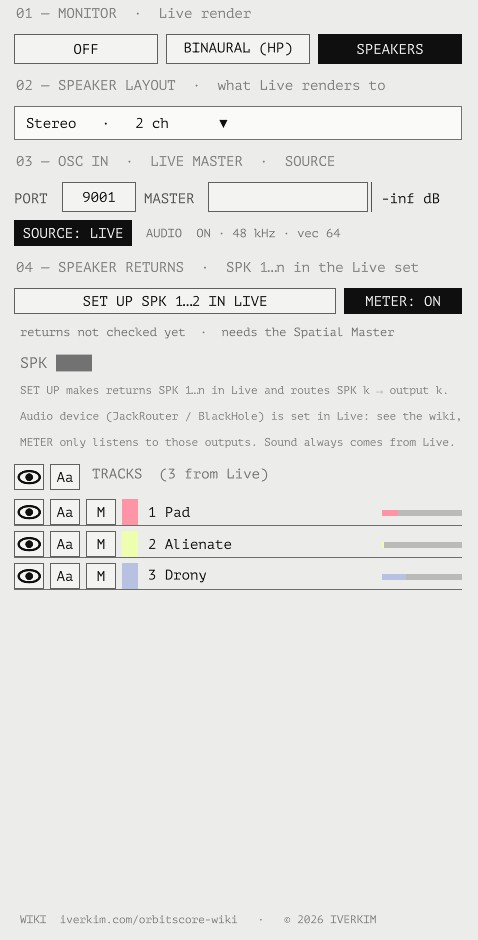
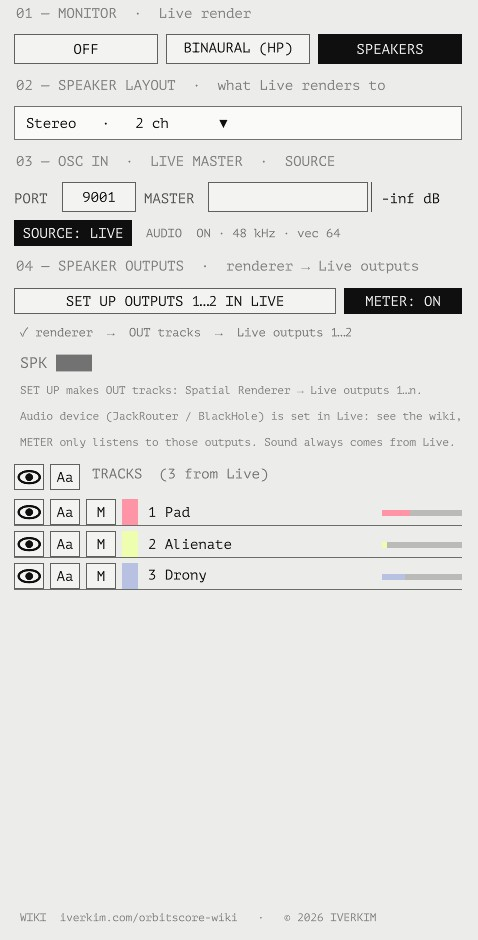
orbitscore-wiki: v8.0 - Spatial Renderer replaces SPK returns (EN/KO)
Claude-Session: https://claude.ai/code/session_01TKc1CDoWRtRwsAG1rPAYtG

diff --git a/orbitscore-wiki/index.html b/orbitscore-wiki/index.html
@@ -144,7 +144,7 @@ footer{font:11.5px/1.6 var(--f-mono);color:var(--mid);border-top:1px solid var(-
 <div class="page">
 <nav class="side" aria-label="Contents">
   <div class="brand">ORBIT SCORE</div>
-  <div class="status">WIKI · v7.5 · 2026.11<br>LIVE · M4L · TOUCHDESIGNER</div>
+  <div class="status">WIKI · v8.0 · 2026.11<br>LIVE · M4L · TOUCHDESIGNER</div>
   <button class="btn menu" id="menuBtn" aria-expanded="false">CONTENTS ▾</button>
   <ol class="toc" id="toc">
     <li><a href="#overview"><span>00</span>OVERVIEW</a></li>
@@ -189,7 +189,7 @@ footer{font:11.5px/1.6 var(--f-mono);color:var(--mid);border-top:1px solid var(-
     <rect class="box" x="20" y="124" width="190" height="34"/><text x="32" y="146" font-size="12">Track n · Spatial Object</text>
     <rect class="fillbox" x="290" y="80" width="170" height="34"/><text x="304" y="102" font-size="12" class="inv">Spatial Master</text>
     <path class="wire" d="M210 53 H250 V97 H290 M210 97 H290 M210 141 H250 V97"/>
-    <rect class="box" x="20" y="200" width="190" height="34"/><text x="32" y="222" font-size="12">Returns · SPK 1…n</text>
+    <rect class="box" x="20" y="200" width="190" height="34"/><text x="32" y="222" font-size="12">Spatial Renderer · OUT</text>
     <path class="dash" d="M115 158 V200"/><text x="124" y="186" class="m" font-size="10">SPEAKERS: sends</text>
     <rect class="box" x="290" y="200" width="170" height="34"/><text x="304" y="222" font-size="12">Main → HP / interface</text>
     <path class="dash" d="M210 217 H290"/>
@@ -233,11 +233,11 @@ footer{font:11.5px/1.6 var(--f-mono);color:var(--mid);border-top:1px solid var(-
     <li>Set the Master to <span class="pill on">BINAURAL</span> and you will hear it on headphones straight away.</li>
   </ol>
   <h4>Audio output for speaker mode</h4>
-  <p>Speaker mode sends Live's returns <code>SPK 1</code> … <code>SPK n</code> out through the virtual device of <a href="#setup-out">01.3</a>. Set that up first — on Windows JACK has to be running before Live can pick JackRouter.</p>
+  <p>Speaker mode mixes every object in one device, the <strong>Spatial Renderer</strong>, and sends the speaker feeds out through the virtual device of <a href="#setup-out">01.3</a>. Set that up first — on Windows JACK has to be running before Live can pick JackRouter.</p>
   <ol>
     <li><strong>macOS</strong>: Preferences → Audio → <strong>Output Device = BlackHole 16ch</strong>, and enable as many output channels as the layout has speakers.</li>
     <li><strong>Windows</strong>: Preferences → Audio → Driver Type ASIO, <strong>Audio Device = JackRouter</strong>, same sample rate as JACK. In <strong>Output Config</strong> enable the pairs that cover the speakers (1/2, 3/4 … up to the speaker count).</li>
-    <li>Returns: press <strong>SET UP SPK 1…n IN LIVE</strong> in TouchDesigner (<a href="#setup-td">01.2</a>) — it creates <code>SPK 1 … n</code> and routes SPK k to output k. By hand: one return per speaker named <code>SPK k</code>, output Ext. Out / k.</li>
+    <li>Make one empty audio track, name it <code>ORBIT RENDER</code> and drop <strong>Spatial Renderer</strong> on it. Then press <strong>SET UP OUTPUTS 1…n IN LIVE</strong> in TouchDesigner (<a href="#setup-td">01.2</a>): it creates the tracks <code>OUT 1/2</code>, <code>OUT 3/4</code> … that carry the renderer's outputs to Live outputs 1…n. Select the renderer and OUT tracks and group them (<kbd>Ctrl</kbd>+<kbd>G</kbd>) to fold them away.</li>
   </ol>
   <figure class="ticks"><div class="t"></div><img src="media/live-output-config.jpg?v=1110b" alt="Ableton Live Settings, Audio: Driver Type ASIO, Audio Device JackRouter, Output Config with stereo pairs 1/2 to 15/16 enabled" loading="lazy" width="560" height="770" style="max-width:420px"><figcaption>FIG. 1.1 — Live → Settings → Audio with JackRouter: Output Config shows as many pairs as JackRouter.ini allows; enable the ones the layout uses</figcaption></figure>
   </section>
@@ -250,21 +250,21 @@ footer{font:11.5px/1.6 var(--f-mono);color:var(--mid);border-top:1px solid var(-
     <li>On the <span class="pill">LIVE</span> tab of the sidebar, check that PORT reads <code>9001</code>. Once the tracks appear in Live's order, you are connected.</li>
     <li>When you finish, <strong>save TouchDesigner with <kbd>Ctrl</kbd>+<kbd>S</kbd> and save the Live set as well</strong>. Paths and motion settings live in the Live set; the TouchDesigner save keeps the screen and theme settings.</li>
   </ol>
-  <h4>04 SPEAKER RETURNS</h4>
-  <p>LIVE tab → <strong>04 SPEAKER RETURNS</strong>. No audio device is chosen in TouchDesigner — the sound always comes from Live, and the device (JackRouter / BlackHole) is set in Live's preferences (<a href="#setup-live">01.1</a>, <a href="#setup-out">01.3</a>).</p>
+  <h4>04 SPEAKER OUTPUTS</h4>
+  <p>LIVE tab → <strong>04 SPEAKER OUTPUTS</strong>. No audio device is chosen in TouchDesigner — the sound always comes from Live, and the device (JackRouter / BlackHole) is set in Live's preferences (<a href="#setup-live">01.1</a>, <a href="#setup-out">01.3</a>).</p>
   <ul>
-    <li><strong>SET UP SPK 1…n IN LIVE</strong> — fits the Live set's return tracks to the current layout: creates the missing <code>SPK k</code> returns, deletes spare empty SPK returns (those without devices), and routes each <code>SPK k</code> to Ext. Out, channel k. The Spatial Master does it one step at a time, so it takes a few seconds. Press it again after changing the layout.</li>
-    <li><strong>Status line</strong> — <span class="mono">✓ SPK 1…12 → Live outputs 1…12</span>, or missing returns / returns on the wrong output / Live offering fewer outputs than the layout needs (enable them in Output Config). The same shows as ⚠ on the LOG tab.</li>
+    <li><strong>SET UP OUTPUTS 1…n IN LIVE</strong> — the Spatial Renderer creates one audio track per speaker pair (<code>OUT 1/2</code>, <code>OUT 3/4</code> …), feeds each from its own output pair and routes it to the matching Live output; spare empty OUT tracks are removed. It takes a few seconds. Press it again after changing the layout. Each Spatial Object routes its own track into the renderer when the monitor is on SPEAKERS.</li>
+    <li><strong>Status line</strong> — <span class="mono">✓ renderer → OUT tracks → Live outputs 1…8</span>, or missing OUT tracks / wrong routing / Live offering fewer outputs than the layout needs (enable them in Output Config). The same shows as ⚠ on the LOG tab.</li>
     <li><strong>METER</strong> — optional. It finds JackRouter / BlackHole by itself and shows one level per speaker. On Windows, also connect Live's outputs to TouchDesigner's inputs in the QjackCtl Graph. You can leave it off.</li>
   </ul>
-  <figure class="ticks"><div class="t"></div><img src="media/ui-speakerout.jpg?v=1110c" alt="Sidebar LIVE tab: MONITOR, SPEAKER LAYOUT, OSC IN, SPEAKER RETURNS with the SET UP SPK button and METER, TRACKS, and the wiki link and copyright line at the bottom" loading="lazy" width="478" height="940" style="max-width:478px"><figcaption>FIG. 1.2 — LIVE tab: 04 SPEAKER RETURNS with SET UP SPK · METER, wiki link at the bottom</figcaption></figure>
-  <div class="note"><b>NOTE</b>Live's Preferences → Audio (driver, device, sample rate, Output Config) cannot be changed through the Live API, so that part is set by hand once. The return tracks and their output routing inside the set are handled by SET UP.</div>
+  <figure class="ticks"><div class="t"></div><img src="media/ui-speakerout.jpg?v=1110d" alt="Sidebar LIVE tab: MONITOR, SPEAKER LAYOUT, OSC IN, SPEAKER OUTPUTS with the SET UP button and METER, TRACKS, and the wiki link and copyright line at the bottom" loading="lazy" width="478" height="940" style="max-width:478px"><figcaption>FIG. 1.2 — LIVE tab: 04 SPEAKER OUTPUTS with SET UP OUTPUTS · METER, wiki link at the bottom</figcaption></figure>
+  <div class="note"><b>NOTE</b>Live's Preferences → Audio (driver, device, sample rate, Output Config) cannot be changed through the Live API, so that part is set by hand once. The tracks and routing inside the set are handled by SET UP.</div>
   </section>
 
   <section id="setup-out" class="sub">
   <div class="cap">01.3 — BlackHole / JACK</div>
   <h3 class="subh">Multichannel output · BlackHole / JACK</h3>
-  <p>This is what the tool is for: Live renders every object onto the speaker layout (returns <code>SPK 1</code> … <code>SPK n</code>) and that multichannel feed has to reach the room — your interface's outputs — or another application that does the final playback. A virtual audio device is the bus for that. In TouchDesigner the <strong>04 SPEAKER RETURNS</strong> section sets up the <code>SPK</code> returns in the Live set and can meter the feeds (<a href="#setup-td">01.2</a>).</p>
+  <p>This is what the tool is for: Live renders every object onto the speaker layout (the Spatial Renderer device) and that multichannel feed has to reach the room — your interface's outputs — or another application that does the final playback. A virtual audio device is the bus for that. In TouchDesigner the <strong>04 SPEAKER OUTPUTS</strong> section sets up the output tracks in the Live set and can meter the feeds (<a href="#setup-td">01.2</a>).</p>
   <h4>macOS — BlackHole</h4>
   <ol>
     <li>Install <a href="https://existential.audio/blackhole/" rel="noopener" target="_blank">BlackHole</a> (16ch; 64ch for dome layouts).</li>
@@ -287,7 +287,7 @@ footer{font:11.5px/1.6 var(--f-mono);color:var(--mid);border-top:1px solid var(-
   <h5>Reading the QjackCtl graph</h5>
   <div class="tw"><table>
     <tr><th>Box · port</th><th>What it is</th></tr>
-    <tr><td><code>Ableton Live</code> out1 … out16</td><td>JackRouter's outputs — as many as <code>output=</code> in JackRouter.ini. Live's <code>SPK n</code> returns arrive here.</td></tr>
+    <tr><td><code>Ableton Live</code> out1 … out16</td><td>JackRouter's outputs — as many as <code>output=</code> in JackRouter.ini. The <code>OUT</code> tracks arrive here.</td></tr>
     <tr><td><code>system</code> playback_1 … N</td><td>The interface's physical outputs, one per speaker. N is fixed by the hardware.</td></tr>
     <tr><td><code>system</code> capture_1 · 2</td><td>The interface's inputs (or whatever input device the driver offers). Wired to Live's in1 · in2 by default; harmless for output. <strong>Playback Only</strong> removes them.</td></tr>
     <tr><td><code>system_midi</code></td><td>MIDI ports — not used by Orbit Score.</td></tr>
@@ -299,7 +299,7 @@ footer{font:11.5px/1.6 var(--f-mono);color:var(--mid);border-top:1px solid var(-
 <!-- 02 -->
 <section id="devices">
   <div class="cap">02 — Live devices</div>
-  <h2>Spatial Object · Spatial Master</h2>
+  <h2>Spatial Object · Spatial Master · Spatial Renderer</h2>
   <h3>Spatial Object parameters</h3>
   <p>All of them are ordinary Live parameters, so you can automate them, map them to macros or drive them with modulators. The position dials (Azimuth / Elevation / Distance) set the <em>centre</em> of the motion.</p>
   <div class="tw"><table>
@@ -324,6 +324,13 @@ footer{font:11.5px/1.6 var(--f-mono);color:var(--mid);border-top:1px solid var(-
     <li>Collects the objects' OSC and sends it to <code>127.0.0.1:9001</code>; listens on <code>9002</code> for edits from TouchDesigner.</li>
     <li>Track mute, master volume and track colour changed in TouchDesigner also reach Live through the Master.</li>
   </ul>
+  <h3>Spatial Renderer</h3>
+  <ul>
+    <li>One per set, on its own empty audio track (<code>ORBIT RENDER</code>). Only needed for speaker mode; binaural works without it.</li>
+    <li><strong>In</strong>: up to 16 objects. Each Spatial Object is given one input pair (3/4, 5/6 …) and routes its own track there while the monitor is on SPEAKERS; back to Main in binaural.</li>
+    <li><strong>Out</strong>: up to 64 speakers. Speaker k leaves on device output k + 2; the <code>OUT</code> tracks made by SET UP OUTPUTS pick the pairs up and send them to Live outputs 1…n.</li>
+    <li>The numbers (16 / 64) are fixed in the device file; a device with other counts can be generated on request.</li>
+  </ul>
   <div class="note"><b>TIP</b>Reordering tracks is safe. Objects are identified by UID rather than track number, and the TouchDesigner list simply follows Live's track order.</div>
 </section>
 
@@ -346,7 +353,7 @@ footer{font:11.5px/1.6 var(--f-mono);color:var(--mid);border-top:1px solid var(-
   <p>The right-hand panel folds away with the <span class="pill">›</span> button on its edge. It has three tabs.</p>
   <div class="tw"><table>
     <tr><th>Tab</th><th>Contents</th></tr>
-    <tr><td>LIVE</td><td>Everything that talks to Live. <strong>01 MONITOR</strong> Off / Binaural (HP) / Speakers · <strong>02 SPEAKER LAYOUT</strong> click to open the list · <strong>03 OSC IN · LIVE MASTER · SOURCE</strong> port (editable), MASTER volume slider, SOURCE: LIVE / DEMO, and Live's audio state (DSP, sample rate, vector size; warns if not 48 kHz) · <strong>04 SPEAKER RETURNS</strong> SET UP SPK 1…n IN LIVE (creates and routes the <code>SPK</code> returns for the layout), status line, optional METER. Problems go to the LOG tab, which shows a small ⚠ · <strong>TRACKS</strong> per track: show (eye), name label (Aa), mute (M), colour, level meter</td></tr>
+    <tr><td>LIVE</td><td>Everything that talks to Live. <strong>01 MONITOR</strong> Off / Binaural (HP) / Speakers · <strong>02 SPEAKER LAYOUT</strong> click to open the list · <strong>03 OSC IN · LIVE MASTER · SOURCE</strong> port (editable), MASTER volume slider, SOURCE: LIVE / DEMO, and Live's audio state (DSP, sample rate, vector size; warns if not 48 kHz) · <strong>04 SPEAKER OUTPUTS</strong> SET UP OUTPUTS 1…n IN LIVE (the renderer's OUT tracks for the layout), status line, optional METER. Problems go to the LOG tab, which shows a small ⚠ · <strong>TRACKS</strong> per track: show (eye), name label (Aa), mute (M), colour, level meter</td></tr>
     <tr><td>VIEW</td><td>Only what changes the picture. <strong>01 PANNING MODEL · speaker glow</strong> VBAP / DBAP / AMBI / WFS · <strong>02 VIEW</strong> dome guide, auto orbit, reset view, ears, theme, names, head (hides the listener model, ears and face)</td></tr>
     <tr><td>SCENES</td><td>Scene list (see <a href="#scenes">05</a>)</td></tr>
     <tr><td>LOG</td><td>WARNINGS (output checks; a ⚠ on the tab while one is active), OSC and device messages. Drag to select and copy. COPY / CLEAR / RESEND (ask Live to send its whole state again)</td></tr>
@@ -425,8 +432,8 @@ footer{font:11.5px/1.6 var(--f-mono);color:var(--mid);border-top:1px solid var(-
   <p>For each object's direction, the device works out the interaural time difference (ITD) and head shadow and renders to stereo. In the 3D view the listener's ears are tinted <span class="L">L blue</span> / <span class="R">R red</span>, and the brightness of each line from an object to an ear shows how much of the sound reaches that ear. The <span class="mono">ITD 0.45 ms R</span> under a name tells you which ear hears it first, and by how much.</p>
   <p>A Line shape is split into two binaural chains, one per end: input L → end A, input R → end B.</p>
   <h3>SPEAKERS</h3>
-  <p>3D VBAP gives a gain per speaker, which the track's sends deliver to return tracks named <code>SPK 1</code> … <code>SPK n</code>. Route each return's output to a channel of your interface. In speaker mode the object tracks' outputs switch to Sends Only.</p>
-  <div class="note"><b>NOTE</b>The audio driver (ASIO / Core Audio), sample rate and buffer size are set in Live under <strong>Preferences → Audio</strong>. Live handles the audio; the AUDIO line on the LIVE tab only reports it. Getting the speaker feeds out of Live and into the room goes through BlackHole / JACK (<a href="#setup-out">01.3</a>); the SPEAKER RETURNS section sets up the returns and can meter them.</div>
+  <p>3D VBAP gives a gain per speaker. In speaker mode every Spatial Object routes its track into the <strong>Spatial Renderer</strong> device (one input pair per object, up to 16), which mixes all objects onto the speakers at signal rate (up to 64) and hands each speaker pair to an <code>OUT</code> track routed to Live's outputs. No return tracks are used, so Live's limit of 12 returns does not apply. The track fader and mute still work: the track is sent post-mixer.</p>
+  <div class="note"><b>NOTE</b>The audio driver (ASIO / Core Audio), sample rate and buffer size are set in Live under <strong>Preferences → Audio</strong>. Live handles the audio; the AUDIO line on the LIVE tab only reports it. Getting the speaker feeds out of Live and into the room goes through BlackHole / JACK (<a href="#setup-out">01.3</a>); the SPEAKER OUTPUTS section sets up the output tracks and can meter them.</div>
   <h3>Speaker layouts</h3>
   <div class="tw"><table>
     <tr><th>ID</th><th>Name</th></tr>
@@ -579,7 +586,7 @@ footer{font:11.5px/1.6 var(--f-mono);color:var(--mid);border-top:1px solid var(-
     <tr><td>Position jumped back to 0</td><td>This can happen right after the device script reloads. Reopening the set brings back the saved values.</td></tr>
     <tr><td>Two objects share a number</td><td>Duplicated tracks get a new UID automatically. If they still clash, delete the device and add it again.</td></tr>
     <tr><td>TD buttons look blank or white</td><td>Reopen the project. The UI refreshes on <code>Uitick</code> (10 Hz), so that parameter must exist.</td></tr>
-    <tr><td>No sound in speaker mode</td><td>Check the returns are named <code>SPK 1</code> … <code>SPK n</code>, that each return is routed to an interface channel, and that Live's output channels are enabled.</td></tr>
+    <tr><td>No sound in speaker mode</td><td>Is a <strong>Spatial Renderer</strong> in the set (LOG: <span class="mono">no-renderer</span> means it is missing)? Press SET UP OUTPUTS, check the <code>OUT</code> tracks show signal and monitor In, and that Live's output channels are enabled in Output Config.</td></tr>
     <tr><td>Orbit Link In says "no signal"</td><td>OSC Out Enable on in Orbit Score, host = the receiving computer, same port both sides, and no other project (an older Orbit Link, another Orbit In) holding that port.</td></tr>
     <tr><td><code>nan</code> in out1</td><td>Fixed in Orbit Link In: non-numbers become 0 and Smooth 0 bypasses the lag. In an older tox set Smooth to 0 or replace it.</td></tr>
     <tr><td>QjackCtl: "Can't open … ???? (…)"</td><td>The Windows device name has non-Latin characters (e.g. a Korean "스피커 (…)") that JACK cannot read. Choose the <code>ASIO::</code> entry of the interface, or rename the device in Sound settings (<code>mmsys.cpl</code>) to Latin letters. Also set Live to No Device while JACK starts.</td></tr>
@@ -596,7 +603,7 @@ footer{font:11.5px/1.6 var(--f-mono);color:var(--mid);border-top:1px solid var(-
   <div class="cap">12 — Roadmap</div>
   <h2>What's next</h2>
   <ul>
-        <li><strong>Speaker routing</strong>: a speaker → output channel map in the LAYOUT list (now SPK k always goes to output k).</li>
+        <li><strong>Renderer</strong>: WFS with per-speaker delays, a speaker → output channel map, level meters on the device.</li>
     <li><strong>Fade curves</strong>: per-scene choice of ease-in-out (now), linear or exponential, and fading motion rate / size as well as the centre.</li>
     <li><strong>Orbit Link</strong>: receive the timeline (bar · beat, locators) so visuals can follow the song position.</li>
 </ul>
@@ -608,7 +615,8 @@ footer{font:11.5px/1.6 var(--f-mono);color:var(--mid);border-top:1px solid var(-
   <h2>Changelog</h2>
   <div class="tw"><table>
     <tr><th>Date</th><th>Changes</th></tr>
-    <tr><td>2026.11.10</td><td>v7.5: SPEAKER RETURNS replaces SPEAKER OUT — SET UP SPK 1…n creates the returns in Live and routes SPK k to output k, with a status line and LOG warnings; no device choice in TouchDesigner (METER finds JackRouter / BlackHole itself) · wiki link and copyright line in the sidebar · fixed the Spatial Object script that had stopped driving the sends</td></tr>
+    <tr><td>2026.11.10</td><td>v8.0: speaker mode rebuilt around the new <strong>Spatial Renderer</strong> device — objects route into it, it mixes onto up to 64 speakers at signal rate and feeds OUT tracks to Live's outputs; no SPK return tracks, so no 12-return limit · SET UP OUTPUTS creates and routes the OUT tracks</td></tr>
+    <tr><td>2026.11.10</td><td>v7.5 (superseded): SPEAKER RETURNS replaces SPEAKER OUT — SET UP SPK 1…n creates the returns in Live and routes SPK k to output k, with a status line and LOG warnings; no device choice in TouchDesigner (METER finds JackRouter / BlackHole itself) · wiki link and copyright line in the sidebar · fixed the Spatial Object script that had stopped driving the sends</td></tr>
     <tr><td>2026.11.10</td><td>v7.4: Orbit Link split into Orbit Link In (receive) and Orbit Link Out (send, Objects filter, scene list from an Orbit In) · out1 is position only by default, Out: toggles for az/el/dist, level, colour, shape · <code>nan</code> fix in Smooth · test Audiovisual takes the values through an inlet · Windows JACK set-up written out (JackRouter channel count, ASIO entry, Playback Only, reading the graph) · editor: EDIT PATH lock for points, the canvas fills the free width when panels are closed, panel toggles are two thin side-by-side strips · VIEW → HEAD hides the listener model · double-click a slider to type a number · speaker glow less saturated than the objects (Glow Saturation) · scenes: objects outside a recalled scene are muted and hidden (OTHERS: MUTE + HIDE / KEEP)</td></tr>
     <tr><td>2026.11.10</td><td>v7.3: per-scene object selection (● / ○ chips, objects not in a scene are left alone) · scene crossfade (default FADE + per-scene fade, beats at the current tempo, eased glide of the centre in the device) · Orbit Link: Select Object mode, Active Scene + scenes_out, Recall Scene from the other project (/orbit/set/scene), /orbit/scene + /orbit/scenes in the stream · output checks on the LOG tab</td></tr>
     <tr><td>2026.11.10</td><td>v7.2: OSC broadcast of every object (/orbit/…), OSC set-in (/orbit/set/…), Orbit Link tox (receive + send) with the test Audiovisual example · SPEAKER OUT section (BlackHole / JACK multichannel output, OS-aware, device list, per-speaker meters, output checks on the LOG tab with a ⚠ badge) · LIVE / VIEW tabs reorganised · single PATH: OPEN / CLOSED LOOP toggle · leader lines, far path points and loop recall fixed · editor fits above the timeline bar · RESET VIEW restarts auto orbit</td></tr>
@@ -649,7 +657,7 @@ footer{font:11.5px/1.6 var(--f-mono);color:var(--mid);border-top:1px solid var(-
     <rect class="box" x="20" y="124" width="190" height="34"/><text x="32" y="146" font-size="12">Track n · Spatial Object</text>
     <rect class="fillbox" x="290" y="80" width="170" height="34"/><text x="304" y="102" font-size="12" class="inv">Spatial Master</text>
     <path class="wire" d="M210 53 H250 V97 H290 M210 97 H290 M210 141 H250 V97"/>
-    <rect class="box" x="20" y="200" width="190" height="34"/><text x="32" y="222" font-size="12">Returns · SPK 1…n</text>
+    <rect class="box" x="20" y="200" width="190" height="34"/><text x="32" y="222" font-size="12">Spatial Renderer · OUT</text>
     <path class="dash" d="M115 158 V200"/><text x="124" y="186" class="m" font-size="10">SPEAKERS: sends</text>
     <rect class="box" x="290" y="200" width="170" height="34"/><text x="304" y="222" font-size="12">Main → HP / interface</text>
     <path class="dash" d="M210 217 H290"/>
@@ -692,11 +700,11 @@ footer{font:11.5px/1.6 var(--f-mono);color:var(--mid);border-top:1px solid var(-
     <li>Master를 <span class="pill on">BINAURAL</span>로 두면 헤드폰으로 바로 들린다.</li>
   </ol>
   <h4>스피커 모드 오디오 출력</h4>
-  <p>스피커 모드는 Live의 리턴 <code>SPK 1</code> … <code>SPK n</code>을 <a href="#ko-setup-out">01.3</a>의 가상 장치로 내보낸다. 그쪽을 먼저 설정한다 — Windows에서는 JACK이 켜져 있어야 Live에서 JackRouter를 고를 수 있다.</p>
+  <p>스피커 모드는 디바이스 하나, <strong>Spatial Renderer</strong>가 모든 오브젝트를 섞어서 <a href="#ko-setup-out">01.3</a>의 가상 장치로 내보낸다. 그쪽을 먼저 설정한다 — Windows에서는 JACK이 켜져 있어야 Live에서 JackRouter를 고를 수 있다.</p>
   <ol>
     <li><strong>macOS</strong>: 환경설정 → Audio → <strong>Output Device = BlackHole 16ch</strong>, 레이아웃 스피커 수만큼 출력 채널을 켠다.</li>
     <li><strong>Windows</strong>: 환경설정 → Audio → Driver Type ASIO, <strong>Audio Device = JackRouter</strong>, 샘플레이트는 JACK과 같게. <strong>Output Config</strong>에서 스피커 수만큼 쌍(1/2, 3/4 …)을 켠다.</li>
-    <li>리턴: TouchDesigner에서 <strong>SET UP SPK 1…n IN LIVE</strong>를 누른다(<a href="#ko-setup-td">01.2</a>) — <code>SPK 1 … n</code>을 만들고 SPK k를 출력 k로 연결한다. 손으로 하려면 스피커마다 <code>SPK k</code>라는 리턴을 만들고 출력을 Ext. Out / k로.</li>
+    <li>빈 오디오 트랙을 하나 만들어 이름을 <code>ORBIT RENDER</code>로 하고 <strong>Spatial Renderer</strong>를 올린다. 그다음 TouchDesigner에서 <strong>SET UP OUTPUTS 1…n IN LIVE</strong>를 누른다(<a href="#ko-setup-td">01.2</a>) — 렌더러 출력을 Live 출력 1…n으로 보내는 <code>OUT 1/2</code>, <code>OUT 3/4</code> … 트랙이 만들어진다. 렌더러와 OUT 트랙을 선택해 그룹(<kbd>Ctrl</kbd>+<kbd>G</kbd>)으로 묶어 접어 두면 깔끔하다.</li>
   </ol>
   <figure class="ticks"><div class="t"></div><img src="media/live-output-config.jpg?v=1110b" alt="Ableton Live 설정 Audio: Driver Type ASIO, Audio Device JackRouter, Output Config에서 스테레오 쌍 1/2~15/16 켜짐" loading="lazy" width="560" height="770" style="max-width:420px"><figcaption>FIG. 1.1 — JackRouter를 고른 Live 설정 → Audio: Output Config에는 JackRouter.ini에서 정한 만큼 쌍이 보인다. 레이아웃이 쓰는 만큼 켠다</figcaption></figure>
   </section>
@@ -709,21 +717,21 @@ footer{font:11.5px/1.6 var(--f-mono);color:var(--mid);border-top:1px solid var(-
     <li>사이드바 <span class="pill">LIVE</span> 탭에서 PORT가 <code>9001</code>인지 확인한다. 트랙이 Live 순서대로 목록에 뜨면 연결된 것.</li>
     <li>작업이 끝나면 <strong>TouchDesigner는 <kbd>Ctrl</kbd>+<kbd>S</kbd>, Live 세트도 따로 저장</strong>. 경로·움직임 설정은 Live 세트에, 화면·테마 설정은 TouchDesigner 쪽에 저장된다.</li>
   </ol>
-  <h4>04 SPEAKER RETURNS</h4>
-  <p>LIVE 탭 → <strong>04 SPEAKER RETURNS</strong>. TouchDesigner에서는 오디오 장치를 고르지 않는다 — 소리는 항상 Live가 내고, 장치(JackRouter / BlackHole)는 Live 환경설정에서 정한다(<a href="#ko-setup-live">01.1</a>, <a href="#ko-setup-out">01.3</a>).</p>
+  <h4>04 SPEAKER OUTPUTS</h4>
+  <p>LIVE 탭 → <strong>04 SPEAKER OUTPUTS</strong>. TouchDesigner에서는 오디오 장치를 고르지 않는다 — 소리는 항상 Live가 내고, 장치(JackRouter / BlackHole)는 Live 환경설정에서 정한다(<a href="#ko-setup-live">01.1</a>, <a href="#ko-setup-out">01.3</a>).</p>
   <ul>
-    <li><strong>SET UP SPK 1…n IN LIVE</strong> — 지금 레이아웃에 맞게 Live 세트의 리턴 트랙을 맞춘다: 없는 <code>SPK k</code> 리턴을 만들고, 남는 빈 SPK 리턴(디바이스가 없는 것)을 지우고, 각 <code>SPK k</code>의 출력을 Ext. Out의 채널 k로 연결한다. Spatial Master가 한 단계씩 처리하므로 몇 초 걸린다. 레이아웃을 바꾼 뒤 다시 누른다.</li>
-    <li><strong>상태 줄</strong> — <span class="mono">✓ SPK 1…12 → Live outputs 1…12</span>, 또는 빠진 리턴 / 잘못 연결된 리턴 / Live가 내주는 출력 수가 모자람(Output Config에서 켠다). 같은 내용이 LOG 탭 ⚠에도 뜬다.</li>
+    <li><strong>SET UP OUTPUTS 1…n IN LIVE</strong> — Spatial Renderer가 스피커 두 개당 오디오 트랙 하나(<code>OUT 1/2</code>, <code>OUT 3/4</code> …)를 만들고, 자기 출력 쌍을 그 트랙에 넣어 해당 Live 출력으로 연결한다. 남는 빈 OUT 트랙은 지운다. 몇 초 걸린다. 레이아웃을 바꾼 뒤 다시 누른다. 모니터가 SPEAKERS일 때 각 Spatial Object는 자기 트랙을 렌더러로 연결한다.</li>
+    <li><strong>상태 줄</strong> — <span class="mono">✓ renderer → OUT tracks → Live outputs 1…8</span>, 또는 OUT 트랙 없음 / 잘못된 연결 / Live가 내주는 출력 수가 모자람(Output Config에서 켠다). 같은 내용이 LOG 탭 ⚠에도 뜬다.</li>
     <li><strong>METER</strong> — 선택 사항. 켜면 JackRouter / BlackHole을 자동으로 찾아 스피커별 레벨을 보여준다. Windows에서는 QjackCtl Graph에서 Live 출력을 TouchDesigner 입력에도 연결해야 보인다. 끄고 써도 된다.</li>
   </ul>
-  <figure class="ticks"><div class="t"></div><img src="media/ui-speakerout.jpg?v=1110c" alt="사이드바 LIVE 탭: MONITOR, SPEAKER LAYOUT, OSC IN, SPEAKER RETURNS의 SET UP SPK 버튼과 METER, TRACKS, 맨 아래 위키 링크와 저작권 표시" loading="lazy" width="478" height="940" style="max-width:478px"><figcaption>FIG. 1.2 — LIVE 탭: 04 SPEAKER RETURNS의 SET UP SPK · METER, 맨 아래 위키 링크</figcaption></figure>
-  <div class="note"><b>NOTE</b>Live의 환경설정 → Audio(드라이버, 장치, 샘플레이트, Output Config)는 Live API로 바꿀 수 없어서 처음 한 번은 손으로 설정한다. 세트 안의 리턴 트랙과 출력 연결은 SET UP이 맡는다.</div>
+  <figure class="ticks"><div class="t"></div><img src="media/ui-speakerout.jpg?v=1110d" alt="사이드바 LIVE 탭: MONITOR, SPEAKER LAYOUT, OSC IN, SPEAKER OUTPUTS의 SET UP 버튼과 METER, TRACKS, 맨 아래 위키 링크와 저작권 표시" loading="lazy" width="478" height="940" style="max-width:478px"><figcaption>FIG. 1.2 — LIVE 탭: 04 SPEAKER OUTPUTS의 SET UP OUTPUTS · METER, 맨 아래 위키 링크</figcaption></figure>
+  <div class="note"><b>NOTE</b>Live의 환경설정 → Audio(드라이버, 장치, 샘플레이트, Output Config)는 Live API로 바꿀 수 없어서 처음 한 번은 손으로 설정한다. 세트 안의 트랙과 연결은 SET UP이 맡는다.</div>
   </section>
 
   <section id="ko-setup-out" class="sub">
   <div class="cap">01.3 — BlackHole / JACK</div>
   <h3 class="subh">다채널 출력 · BlackHole / JACK</h3>
-  <p>이 툴의 목적이 여기 있다. Live가 모든 오브젝트를 스피커 레이아웃으로 렌더링하면(리턴 <code>SPK 1</code> … <code>SPK n</code>) 그 다채널 피드가 공간 — 인터페이스 출력 — 이나 최종 재생을 맡은 다른 앱에 닿아야 한다. 가상 오디오 장치가 그 버스다. TouchDesigner의 <strong>04 SPEAKER RETURNS</strong> 섹션이 Live 세트의 <code>SPK</code> 리턴을 맞추고, 원하면 피드를 미터로 보여준다(<a href="#ko-setup-td">01.2</a>).</p>
+  <p>이 툴의 목적이 여기 있다. Live가 모든 오브젝트를 스피커 레이아웃으로 렌더링하면(Spatial Renderer 디바이스) 그 다채널 피드가 공간 — 인터페이스 출력 — 이나 최종 재생을 맡은 다른 앱에 닿아야 한다. 가상 오디오 장치가 그 버스다. TouchDesigner의 <strong>04 SPEAKER OUTPUTS</strong> 섹션이 Live 세트의 출력 트랙을 맞추고, 원하면 피드를 미터로 보여준다(<a href="#ko-setup-td">01.2</a>).</p>
   <h4>macOS — BlackHole</h4>
   <ol>
     <li><a href="https://existential.audio/blackhole/" rel="noopener" target="_blank">BlackHole</a> 설치 (16ch, 돔 레이아웃이면 64ch).</li>
@@ -746,7 +754,7 @@ footer{font:11.5px/1.6 var(--f-mono);color:var(--mid);border-top:1px solid var(-
   <h5>QjackCtl 그래프 읽기</h5>
   <div class="tw"><table>
     <tr><th>상자 · 포트</th><th>뜻</th></tr>
-    <tr><td><code>Ableton Live</code> out1 … out16</td><td>JackRouter의 출력. JackRouter.ini의 <code>output=</code> 수만큼 생긴다. Live의 <code>SPK n</code> 리턴이 여기로 나온다.</td></tr>
+    <tr><td><code>Ableton Live</code> out1 … out16</td><td>JackRouter의 출력. JackRouter.ini의 <code>output=</code> 수만큼 생긴다. <code>OUT</code> 트랙이 여기로 나온다.</td></tr>
     <tr><td><code>system</code> playback_1 … N</td><td>인터페이스의 실제 출력, 스피커 하나에 하나. N은 하드웨어가 정한다.</td></tr>
     <tr><td><code>system</code> capture_1 · 2</td><td>인터페이스 입력(또는 드라이버가 내주는 입력 장치). 기본으로 Live의 in1 · in2에 연결되지만 출력과는 상관없다. <strong>Playback Only</strong>로 두면 사라진다.</td></tr>
     <tr><td><code>system_midi</code></td><td>MIDI 포트 — Orbit Score는 쓰지 않는다.</td></tr>
@@ -757,7 +765,7 @@ footer{font:11.5px/1.6 var(--f-mono);color:var(--mid);border-top:1px solid var(-
 
 <section id="ko-devices">
   <div class="cap">02 — Live devices</div>
-  <h2>Spatial Object · Spatial Master</h2>
+  <h2>Spatial Object · Spatial Master · Spatial Renderer</h2>
   <h3>Spatial Object 파라미터</h3>
   <p>전부 Live 파라미터라서 오토메이션·매크로·모듈레이터로 움직일 수 있다. 위치 다이얼(Azimuth / Elevation / Distance)은 움직임의 <em>중심</em>이다.</p>
   <div class="tw"><table>
@@ -782,6 +790,13 @@ footer{font:11.5px/1.6 var(--f-mono);color:var(--mid);border-top:1px solid var(-
     <li>오브젝트들의 OSC를 모아 <code>127.0.0.1:9001</code>로 보내고, <code>9002</code>로 TouchDesigner의 편집을 받는다.</li>
     <li>TouchDesigner에서 바꾼 트랙 뮤트, 마스터 볼륨, 트랙 색도 Master를 거쳐 Live에 반영된다.</li>
   </ul>
+  <h3>Spatial Renderer</h3>
+  <ul>
+    <li>세트에 하나, 빈 오디오 트랙(<code>ORBIT RENDER</code>)에 둔다. 스피커 모드에만 필요하고 바이노럴은 없어도 된다.</li>
+    <li><strong>입력</strong>: 오브젝트 최대 16개. Spatial Object마다 입력 한 쌍(3/4, 5/6 …)을 받고, 모니터가 SPEAKERS인 동안 자기 트랙을 그리로 연결한다. 바이노럴로 바꾸면 Main으로 돌아간다.</li>
+    <li><strong>출력</strong>: 스피커 최대 64개. 스피커 k는 디바이스 출력 k + 2로 나가고, SET UP OUTPUTS가 만든 <code>OUT</code> 트랙이 쌍으로 받아 Live 출력 1…n으로 보낸다.</li>
+    <li>개수(16 / 64)는 디바이스 파일에 고정돼 있다. 다른 개수의 디바이스는 다시 생성하면 된다.</li>
+  </ul>
   <div class="note"><b>TIP</b>트랙 순서를 바꿔도 안전하다. 오브젝트는 트랙 번호가 아니라 UID로 구분되고, TouchDesigner 목록은 Live의 트랙 순서를 그대로 따라간다.</div>
 </section>
 
@@ -803,7 +818,7 @@ footer{font:11.5px/1.6 var(--f-mono);color:var(--mid);border-top:1px solid var(-
   <p>오른쪽 패널은 가장자리의 <span class="pill">›</span> 버튼으로 접고 펼 수 있다. 위쪽 탭은 세 개.</p>
   <div class="tw"><table>
     <tr><th>탭</th><th>항목</th></tr>
-    <tr><td>LIVE</td><td>Live와 주고받는 것 전부. <strong>01 MONITOR</strong> Off / Binaural (HP) / Speakers · <strong>02 SPEAKER LAYOUT</strong> 클릭하면 목록 · <strong>03 OSC IN · LIVE MASTER · SOURCE</strong> 포트(편집 가능), MASTER 볼륨 슬라이더, SOURCE: LIVE / DEMO, Live 오디오 상태(DSP, 샘플레이트, 벡터 크기 — 48 kHz가 아니면 경고) · <strong>04 SPEAKER RETURNS</strong> SET UP SPK 1…n IN LIVE(레이아웃에 맞게 <code>SPK</code> 리턴 생성·연결), 상태 줄, 선택 사항인 METER. 문제는 LOG 탭으로 가고 탭에 작은 ⚠가 붙는다 · <strong>TRACKS</strong> 트랙별 표시(눈), 이름표(Aa), 뮤트(M), 색, 레벨 미터</td></tr>
+    <tr><td>LIVE</td><td>Live와 주고받는 것 전부. <strong>01 MONITOR</strong> Off / Binaural (HP) / Speakers · <strong>02 SPEAKER LAYOUT</strong> 클릭하면 목록 · <strong>03 OSC IN · LIVE MASTER · SOURCE</strong> 포트(편집 가능), MASTER 볼륨 슬라이더, SOURCE: LIVE / DEMO, Live 오디오 상태(DSP, 샘플레이트, 벡터 크기 — 48 kHz가 아니면 경고) · <strong>04 SPEAKER OUTPUTS</strong> SET UP OUTPUTS 1…n IN LIVE(레이아웃에 맞는 렌더러 OUT 트랙), 상태 줄, 선택 사항인 METER. 문제는 LOG 탭으로 가고 탭에 작은 ⚠가 붙는다 · <strong>TRACKS</strong> 트랙별 표시(눈), 이름표(Aa), 뮤트(M), 색, 레벨 미터</td></tr>
     <tr><td>VIEW</td><td>화면에 관한 것만. <strong>01 PANNING MODEL · speaker glow</strong> VBAP / DBAP / AMBI / WFS · <strong>02 VIEW</strong> Dome guide, Auto orbit, Reset view, Ears, Theme, Names, Head(청자 머리·귀·표정 숨기기)</td></tr>
     <tr><td>SCENES</td><td>씬 목록 (<a href="#ko-scenes">05</a> 참고)</td></tr>
     <tr><td>LOG</td><td>WARNINGS(출력 검사 — 걸려 있는 동안 탭에 ⚠), OSC·디바이스 로그. 드래그해서 선택·복사할 수 있다. COPY / CLEAR / RESEND(Live에 전체 상태를 다시 요청)</td></tr>
@@ -879,8 +894,8 @@ footer{font:11.5px/1.6 var(--f-mono);color:var(--mid);border-top:1px solid var(-
   <p>오브젝트 방향마다 양쪽 귀의 도달 시간 차(ITD)와 머리 그림자(head shadow)를 계산해 스테레오로 만든다. 3D 뷰의 머리 모형 귀 색이 <span class="L">L 파랑</span> / <span class="R">R 빨강</span>이고, 오브젝트에서 귀로 가는 선의 밝기가 그 귀에 닿는 양이다. 이름표 아래 <span class="mono">ITD 0.45 ms R</span>은 어느 귀에 얼마나 먼저 닿는지를 뜻한다.</p>
   <p>Line 모양은 직선 양 끝을 두 개의 바이노럴 체인으로 나눠 입력 L → 끝 A, 입력 R → 끝 B로 보낸다.</p>
   <h3>SPEAKERS</h3>
-  <p>3D VBAP으로 스피커별 게인을 구하고, 트랙의 Send로 <code>SPK 1</code> … <code>SPK n</code>이라는 이름의 리턴 트랙에 보낸다. 각 리턴의 출력을 인터페이스 채널에 연결하면 된다. 스피커 모드에서 오브젝트 트랙의 출력은 Sends Only가 된다.</p>
-  <div class="note"><b>NOTE</b>오디오 드라이버(ASIO / Core Audio), 샘플레이트, 버퍼는 Live <strong>환경설정 → Audio</strong>에서 정한다. 소리는 Live가 처리하고 LIVE 탭의 AUDIO 줄은 그 상태를 보여줄 뿐이다. 스피커 피드를 Live 밖으로, 공간으로 보내는 건 BlackHole / JACK(<a href="#ko-setup-out">01.3</a>)이 하고, SPEAKER RETURNS 섹션이 리턴을 맞추고, 원하면 미터로 보여준다.</div>
+  <p>3D VBAP으로 스피커별 게인을 구한다. 스피커 모드에서 각 Spatial Object는 자기 트랙을 <strong>Spatial Renderer</strong> 디바이스로 보내고(오브젝트당 입력 한 쌍, 최대 16개), 렌더러가 모든 오브젝트를 오디오 신호 단위로 스피커에 섞어(최대 64개) 스피커 쌍마다 <code>OUT</code> 트랙으로 넘기면 그 트랙이 Live 출력으로 나간다. 리턴 트랙을 쓰지 않으므로 Live의 리턴 12개 제한과 무관하다. 트랙 페이더와 뮤트는 그대로 듣는다(포스트 믹서로 보낸다).</p>
+  <div class="note"><b>NOTE</b>오디오 드라이버(ASIO / Core Audio), 샘플레이트, 버퍼는 Live <strong>환경설정 → Audio</strong>에서 정한다. 소리는 Live가 처리하고 LIVE 탭의 AUDIO 줄은 그 상태를 보여줄 뿐이다. 스피커 피드를 Live 밖으로, 공간으로 보내는 건 BlackHole / JACK(<a href="#ko-setup-out">01.3</a>)이 하고, SPEAKER OUTPUTS 섹션이 출력 트랙을 맞추고, 원하면 미터로 보여준다.</div>
   <h3>스피커 레이아웃</h3>
   <div class="tw"><table>
     <tr><th>ID</th><th>이름</th></tr>
@@ -1028,7 +1043,7 @@ footer{font:11.5px/1.6 var(--f-mono);color:var(--mid);border-top:1px solid var(-
     <tr><td>위치가 0으로 돌아갔다</td><td>디바이스 스크립트가 다시 로드된 직후일 수 있다. 세트를 다시 열면 저장된 값이 돌아온다.</td></tr>
     <tr><td>오브젝트 둘이 같은 번호</td><td>복제된 트랙은 자동으로 새 UID를 받는다. 그래도 겹치면 디바이스를 지웠다 다시 넣는다.</td></tr>
     <tr><td>TD 버튼이 하얗게 비어 보인다</td><td>프로젝트를 다시 연다. UI는 <code>Uitick</code>(10 Hz)으로 갱신되므로 이 파라미터가 있어야 한다.</td></tr>
-    <tr><td>스피커 모드에서 소리가 안 난다</td><td>리턴 트랙 이름이 <code>SPK 1</code> … <code>SPK n</code>인지, 각 리턴 출력이 인터페이스 채널로 가는지, Live 출력 채널이 켜져 있는지 확인.</td></tr>
+    <tr><td>스피커 모드에서 소리가 안 난다</td><td>세트에 <strong>Spatial Renderer</strong>가 있는지(LOG에 <span class="mono">no-renderer</span>가 뜨면 없는 것). SET UP OUTPUTS를 누르고, <code>OUT</code> 트랙에 신호가 들어오고 모니터가 In인지, Live 출력 채널이 Output Config에서 켜져 있는지 확인.</td></tr>
     <tr><td>Orbit Link In이 "no signal"</td><td>Orbit Score의 OSC Out Enable이 켜져 있는지, 호스트가 받는 컴퓨터인지, 양쪽 포트가 같은지, 다른 프로젝트(예전 Orbit Link, 다른 Orbit In)가 그 포트를 잡고 있지 않은지.</td></tr>
     <tr><td>out1에 <code>nan</code></td><td>Orbit Link In에서 고쳤다 — 숫자가 아니면 0으로 바꾸고, Smooth 0이면 lag를 거치지 않는다. 예전 tox는 Smooth를 0으로 두거나 새 tox로 바꾼다.</td></tr>
     <tr><td>QjackCtl: "Can't open … ???? (…)"</td><td>Windows 장치 이름에 JACK이 읽지 못하는 한글 등이 들어 있다(예: "스피커 (…)"). 인터페이스의 <code>ASIO::</code> 항목을 고르거나, 소리 설정(<code>mmsys.cpl</code>)에서 장치 이름을 영문으로 바꾼다. JACK을 시작할 때 Live는 No Device로.</td></tr>
@@ -1044,7 +1059,7 @@ footer{font:11.5px/1.6 var(--f-mono);color:var(--mid);border-top:1px solid var(-
   <div class="cap">12 — Roadmap</div>
   <h2>다음 작업</h2>
   <ul>
-        <li><strong>스피커 라우팅</strong> — LAYOUT 목록에 스피커 → 출력 채널 맵 (지금은 SPK k가 항상 출력 k).</li>
+        <li><strong>렌더러</strong> — 스피커별 지연을 쓰는 WFS, 스피커 → 출력 채널 맵, 디바이스의 레벨 미터.</li>
     <li><strong>페이드 커브</strong> — 씬별로 이즈 인·아웃(지금) / 리니어 / 지수 선택, 중심뿐 아니라 모션 rate·size도 페이드.</li>
     <li><strong>Orbit Link</strong> — 타임라인(마디·박, 로케이터)도 받아서 비주얼이 곡 위치를 따라가게.</li>
 </ul>
@@ -1055,7 +1070,8 @@ footer{font:11.5px/1.6 var(--f-mono);color:var(--mid);border-top:1px solid var(-
   <h2>변경 이력</h2>
   <div class="tw"><table>
     <tr><th>날짜</th><th>내용</th></tr>
-    <tr><td>2026.11.10</td><td>v7.5: SPEAKER OUT을 SPEAKER RETURNS로 교체 — SET UP SPK 1…n이 Live에 리턴을 만들고 SPK k를 출력 k로 연결, 상태 줄과 LOG 경고 · TouchDesigner에서 장치 선택 없음(METER가 JackRouter / BlackHole을 스스로 찾음) · 사이드바에 위키 링크와 저작권 표시 · 센드를 움직이지 않던 Spatial Object 스크립트 수정</td></tr>
+    <tr><td>2026.11.10</td><td>v8.0: 스피커 모드를 새 <strong>Spatial Renderer</strong> 디바이스 중심으로 재구성 — 오브젝트가 렌더러로 들어가고, 렌더러가 오디오 신호 단위로 최대 64개 스피커에 섞어 OUT 트랙을 거쳐 Live 출력으로 보낸다. SPK 리턴을 쓰지 않아 리턴 12개 제한이 없다 · SET UP OUTPUTS가 OUT 트랙을 만들고 연결</td></tr>
+    <tr><td>2026.11.10</td><td>v7.5(대체됨): SPEAKER OUT을 SPEAKER RETURNS로 교체 — SET UP SPK 1…n이 Live에 리턴을 만들고 SPK k를 출력 k로 연결, 상태 줄과 LOG 경고 · TouchDesigner에서 장치 선택 없음(METER가 JackRouter / BlackHole을 스스로 찾음) · 사이드바에 위키 링크와 저작권 표시 · 센드를 움직이지 않던 Spatial Object 스크립트 수정</td></tr>
     <tr><td>2026.11.10</td><td>v7.4: Orbit Link를 Orbit Link In(받기)과 Orbit Link Out(보내기, Objects 필터, Orbit In에서 씬 목록)으로 분리 · out1 기본은 위치만, Out: 토글로 az/el/dist·레벨·색·모양 추가 · Smooth의 <code>nan</code> 수정 · test Audiovisual이 입구로 값을 받음 · Windows JACK 셋업 상세(JackRouter 채널 수, ASIO 항목, Playback Only, 그래프 읽기) · 에디터: 점 편집 잠금 EDIT PATH, 패널을 닫으면 캔버스가 가로로 채워짐, 패널 접기 버튼을 얇은 세로 띠 두 개로 나란히 · VIEW → HEAD로 청자 모형 숨기기 · 슬라이더 더블클릭으로 숫자 입력 · 스피커 글로우 채도를 오브젝트보다 낮게(Glow Saturation) · 씬: 리콜한 씬에 없는 오브젝트 뮤트+숨김(OTHERS: MUTE + HIDE / KEEP)</td></tr>
     <tr><td>2026.11.10</td><td>v7.3: 씬별 오브젝트 선택(● / ○ 칩, 씬에 없는 오브젝트는 건드리지 않음) · 씬 크로스페이드(기본 FADE + 씬별 페이드, 현재 템포 기준 박, 디바이스 안에서 중심이 이징으로 이동) · Orbit Link: Select Object 모드, Active Scene + scenes_out, 상대 프로젝트에서 Recall Scene(/orbit/set/scene), 스트림에 /orbit/scene · /orbit/scenes · 출력 검사를 LOG 탭으로</td></tr>
     <tr><td>2026.11.10</td><td>v7.2: 모든 오브젝트 OSC 송출(/orbit/…), 설정 수신(/orbit/set/…), 받기+보내기 Orbit Link tox와 test Audiovisual 예제 · SPEAKER OUT 섹션(BlackHole / JACK 다채널 출력, OS 자동 감지, 장치 목록, 스피커별 미터, LOG 탭 ⚠ 출력 검사) · LIVE / VIEW 탭 재정리 · PATH: OPEN / CLOSED LOOP 단일 토글 · 이름표 선, 먼 경로 점, 루프 리콜 수정 · 타임라인 바 위로 줄어드는 에디터 · RESET VIEW가 자동 회전도 재시작</td></tr>
